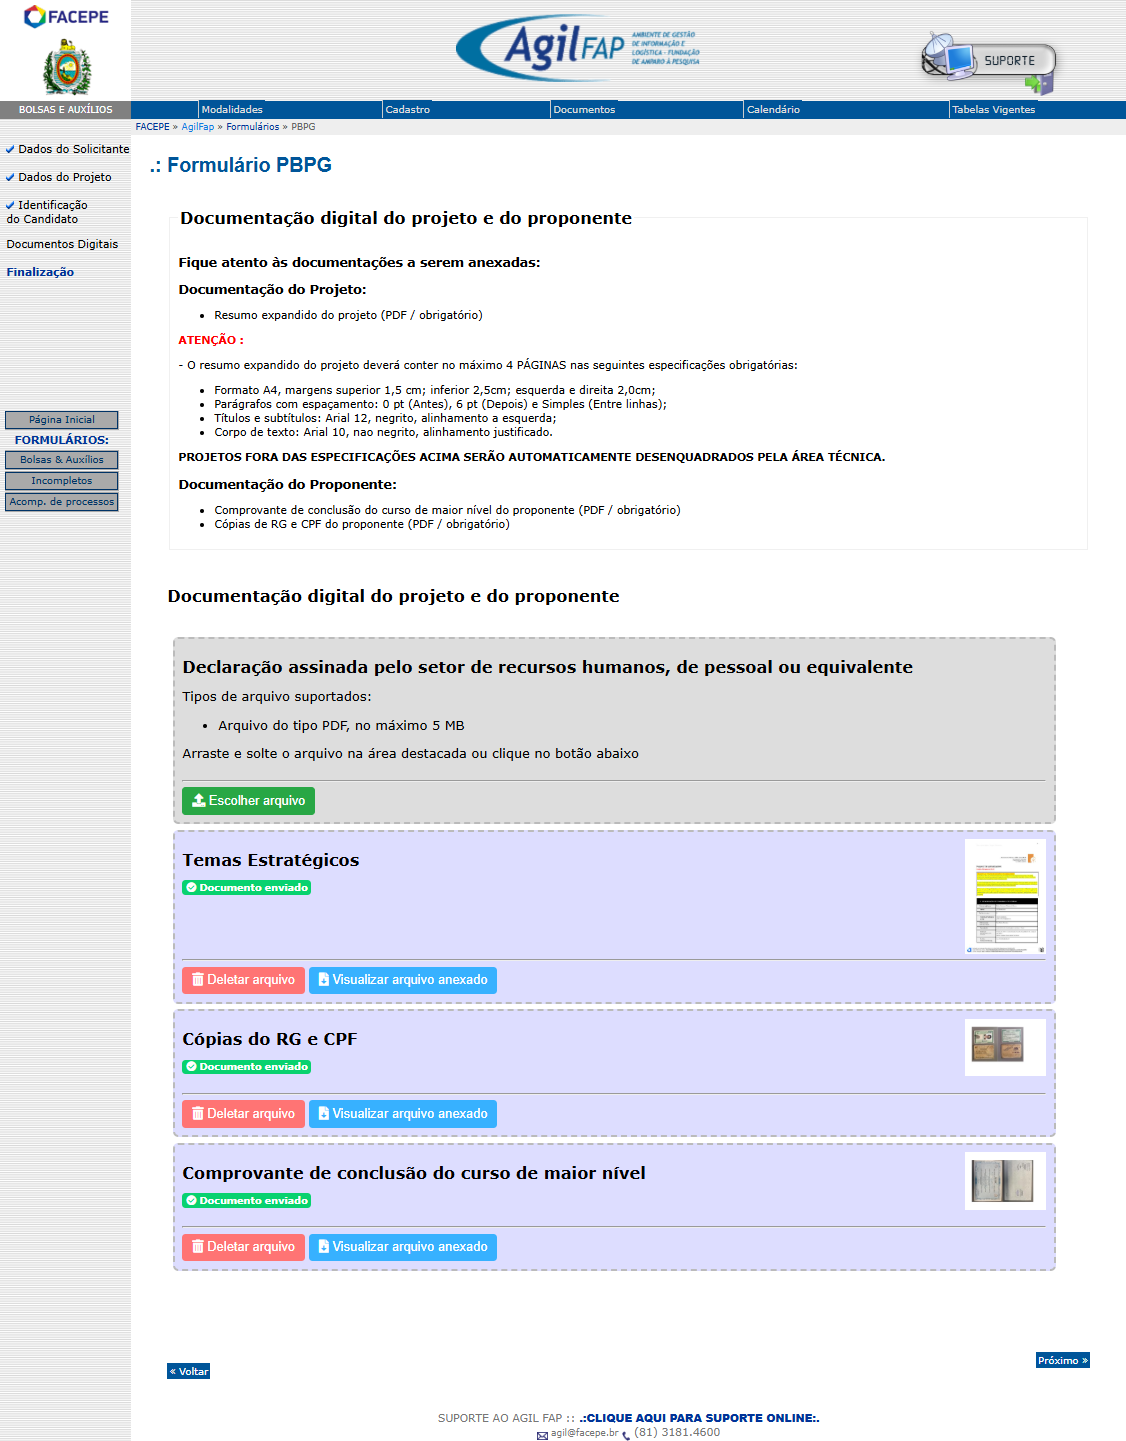
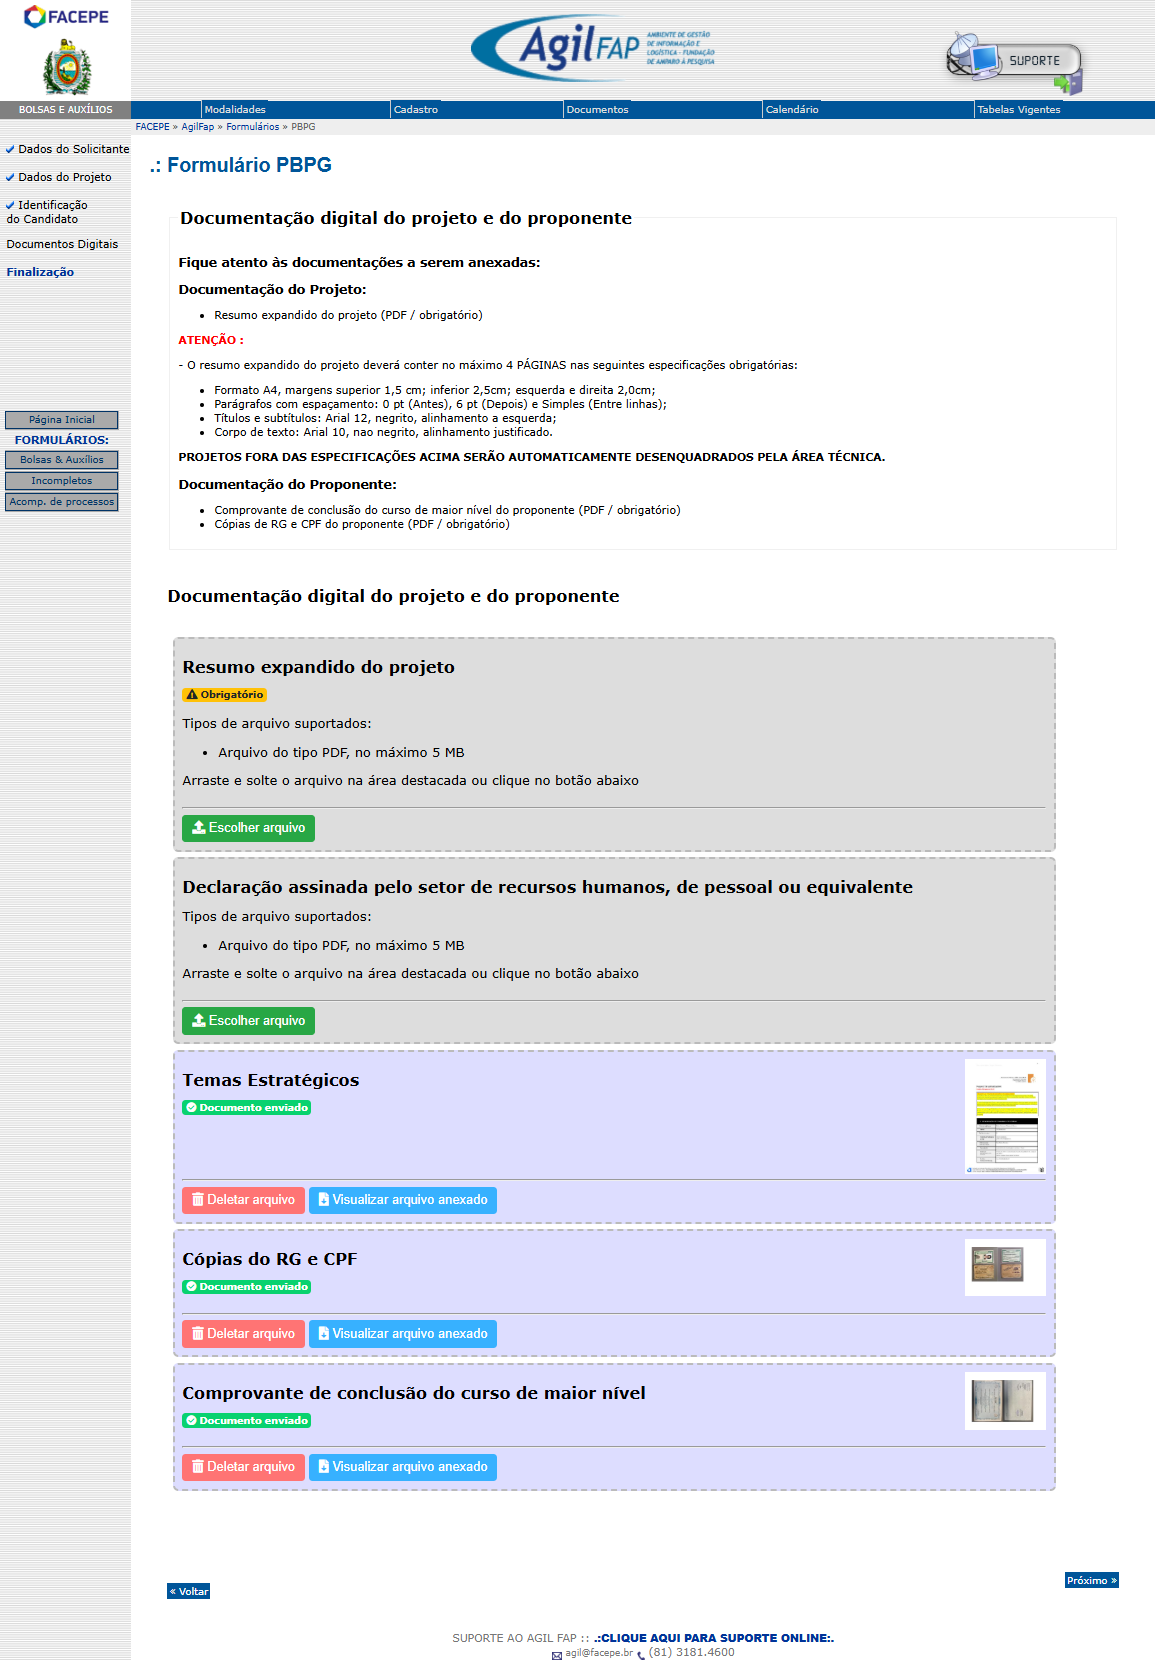
atualizações facepe

diff --git a/facepe/index.html b/facepe/index.html
@@ -208,9 +208,13 @@
         <p><b>Resumo expandido</b></p>
 
         <p>
-          Apesar da menção do resumo e da exigência no edital, não há campo para
-          sua submissão no formulário. Ele talvez seja solicitado apenas no
-          processo de indicação do candidato.
+          O resumo expandido do projeto deverá conter no máximo 4 PÁGINAS.<br />
+          Formato A4, margens superior 1,5 cm; inferior 2,5cm; esquerda e
+          direita 2,0cm;<br />
+          Parágrafos com espaçamento: 0 pt (Antes), 6 pt (Depois) e Simples
+          (Entre linhas);<br />
+          Títulos e subtítulos: Arial 12, negrito, alinhamento a esquerda;<br />
+          Corpo de texto: Arial 10, nao negrito, alinhamento justificado.
         </p>
 
         <br /><br />